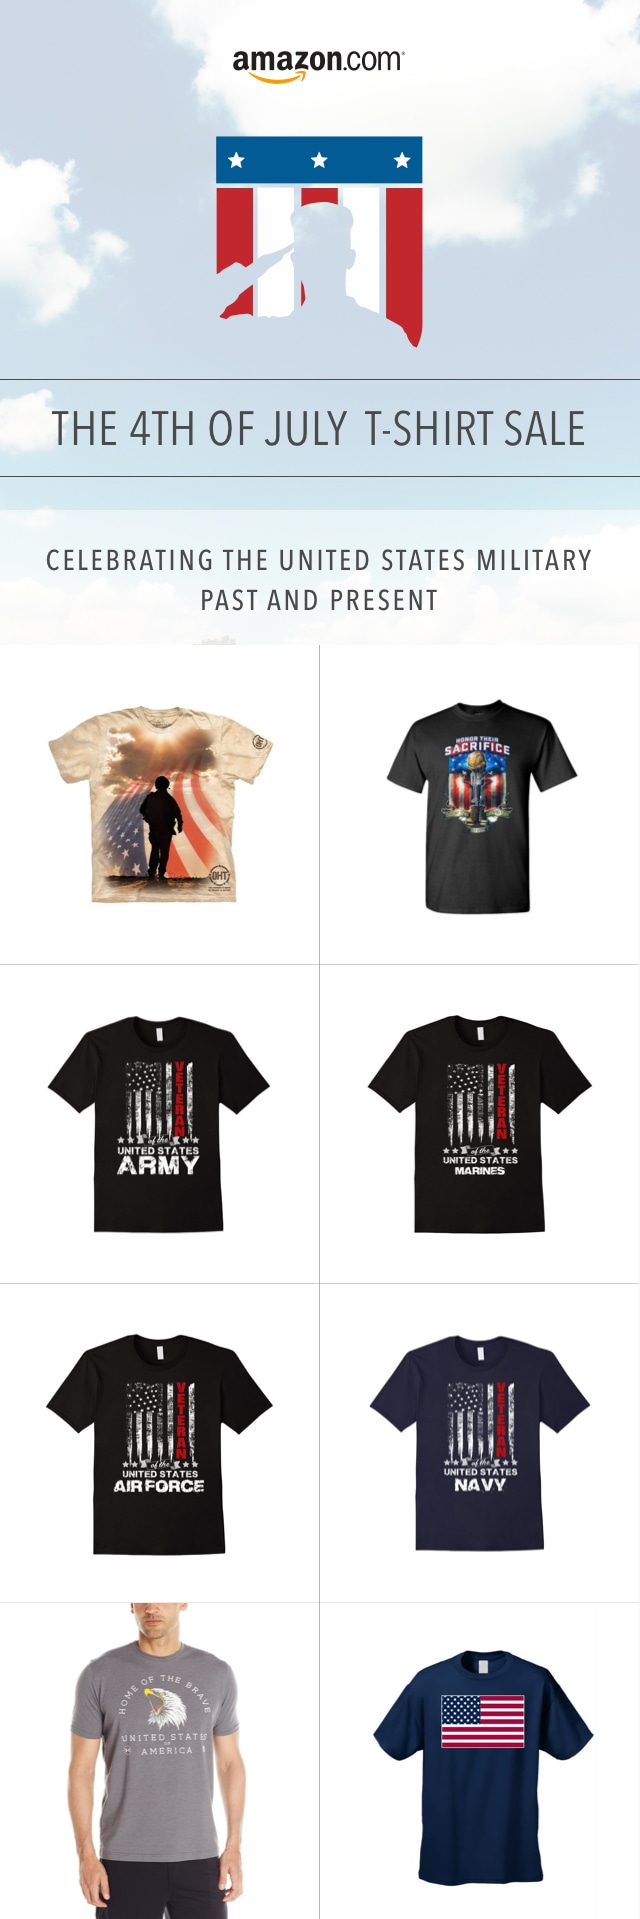
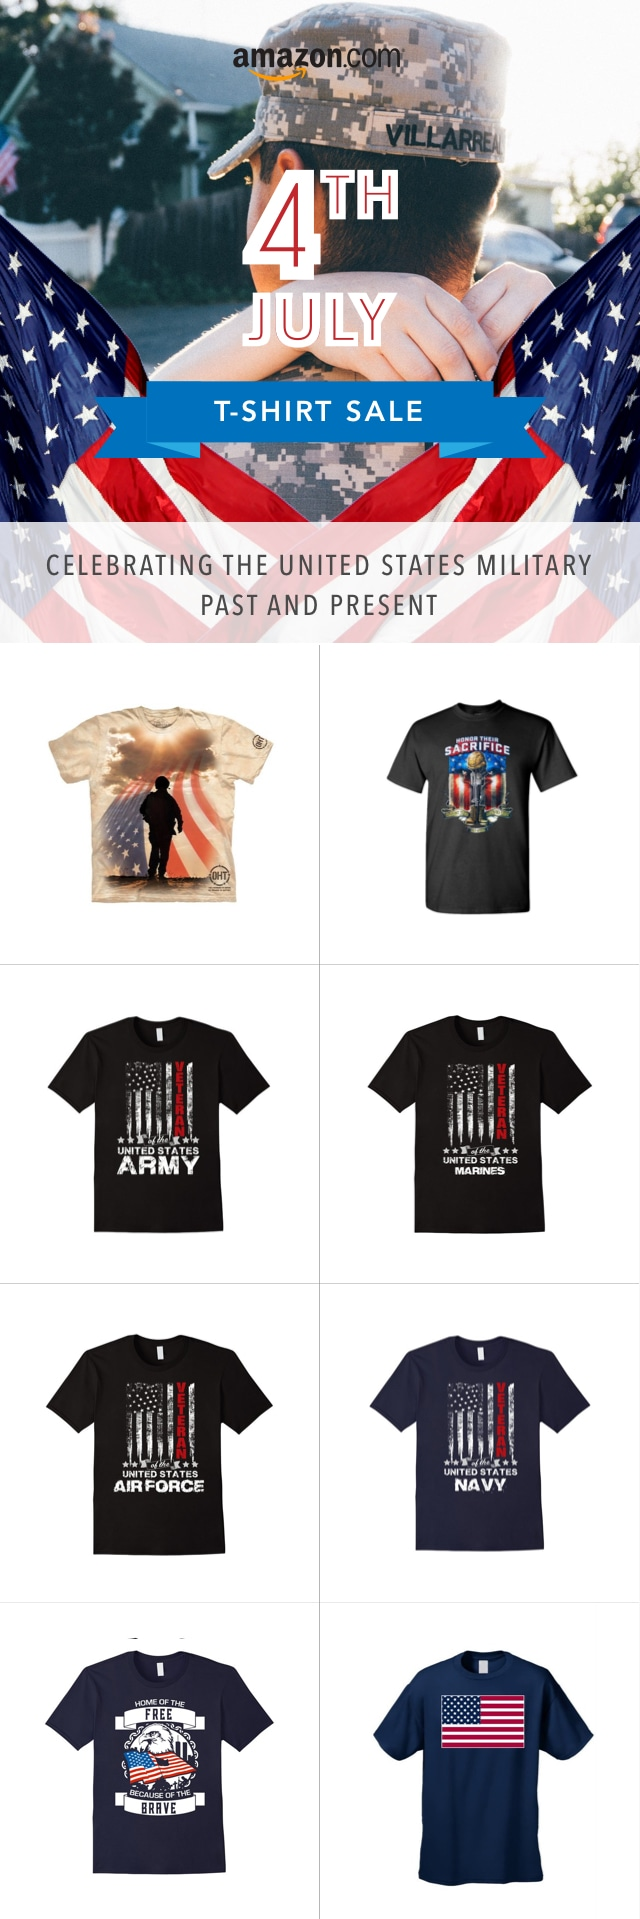
Edits to landing page, image swaps

diff --git a/amazon-affiliate-page (tshirt)/index.html b/amazon-affiliate-page (tshirt)/index.html
@@ -55,7 +55,7 @@
             <li class="portfolio-item joomla wordpress apps col-md-3 col-xs-12">
                 <div class="item-inner">
                     <img src="images/portfolio/4.jpg" alt="">
-                     <a href="https://www.amazon.com/gp/product/B01GYZZRDY/ref=as_li_tl?ie=UTF8&camp=1789&creative=9325&creativeASIN=B01GYZZRDY&linkCode=as2&tag=wrapco-20&linkId=64cb20580341cc19a465004f98ba8e8a">
+                     <a href="https://www.amazon.com/gp/product/B01H0BCOJ6?ie=UTF8&tag=wrapco-20&camp=1789&linkCode=xm2&creativeASIN=B01H0BCOJ6">
                         <img src="images/portfolio/ADDTC.png" style="padding-bottom: 10px;">
                              
                 </div>           
@@ -63,7 +63,7 @@
             <li class="portfolio-item joomla html col-md-3 col-xs-12">
                 <div class="item-inner">
                     <img src="images/portfolio/5.jpg" alt="">
-                    <a href="https://www.amazon.com/gp/product/B01GYZVZZI/ref=as_li_tl?ie=UTF8&camp=1789&creative=9325&creativeASIN=B01GYZVZZI&linkCode=as2&tag=wrapco-20&linkId=51a5ad50cbf4fd9f08bbb9cee1717319">
+                    <a href="https://www.amazon.com/gp/product/B00PQYE94I?ie=UTF8&tag=wrapco-20&camp=1789&linkCode=xm2&creativeASIN=B00PQYE94I">
                         <img src="images/portfolio/ADDTC.png" style="padding-bottom: 10px;">
                     
                 </div>       
@@ -71,7 +71,7 @@
             <li class="portfolio-item wordpress html col-md-3 col-xs-12" >
                 <div class="item-inner">
                     <img src="images/portfolio/6.jpg" alt="">
-                       <a href="https://www.amazon.com/gp/product/B01GYZNS9Y/ref=as_li_tl?ie=UTF8&camp=1789&creative=9325&creativeASIN=B01GYZNS9Y&linkCode=as2&tag=wrapco-20&linkId=f82f7a2852af7250c0622d3625e973e2">
+                       <a href="https://www.amazon.com/gp/product/B00LPVJHMU?ie=UTF8&tag=wrapco-20&camp=1789&linkCode=xm2&creativeASIN=B00LPVJHMU">
                         <img src="images/portfolio/ADDTC.png" style="padding-bottom: 10px;">
                             
                 </div>           
@@ -79,13 +79,13 @@
             <li class="portfolio-item joomla html col-md-3 col-xs-12">
                 <div class="item-inner">
                     <img src="images/portfolio/10.jpg" alt="">
-                      <a href="https://www.amazon.com/gp/product/B01GYZQJYK/ref=as_li_tl?ie=UTF8&camp=1789&creative=9325&creativeASIN=B01GYZQJYK&linkCode=as2&tag=wrapco-20&linkId=affd6851ed38e44051ac5ff4357fd4a9">
+                      <a href="https://www.amazon.com/gp/product/B01BHLBKGS?ie=UTF8&tag=wrapco-20&camp=1789&linkCode=xm2&creativeASIN=B01BHLBKGS">
                         <img src="images/portfolio/ADDTC.png" style="padding-bottom: 10px;">
              </li><!--/.portfolio-item-->
             <li class="portfolio-item joomla wordpress apps col-md-3 col-xs-12">
                 <div class="item-inner">
                     <img src="images/portfolio/8.jpg" alt="">
-                      <a href="https://www.amazon.com/Under-Armour-Freedom-Combat-Medium/dp/B0101J60L2/ref=sr_1_1?s=sporting-goods&ie=UTF8&qid=1466626242&sr=1-1&keywords=HOME+OF+THE+BRAVE">
+                      <a href="https://www.amazon.com/gp/product/B01FB4RPRK?ie=UTF8&tag=wrapco-20&camp=1789&linkCode=xm2&creativeASIN=B01FB4RPRK">
                         <img src="images/portfolio/ADDTC.png" style="padding-bottom: 10px;">
                            
                 </div>           

diff --git a/amazon-affiliate-page (tshirt)/css/main.css b/amazon-affiliate-page (tshirt)/css/main.css
@@ -1119,6 +1119,6 @@ ul.faq li > div h3 {
 }
 @media(max-width: 600px) {
   #header {
-    content:url("../images/portfolio/header_mobile.png");
+    content:url("../images/portfolio/Mobile.jpg");
   }
 }
